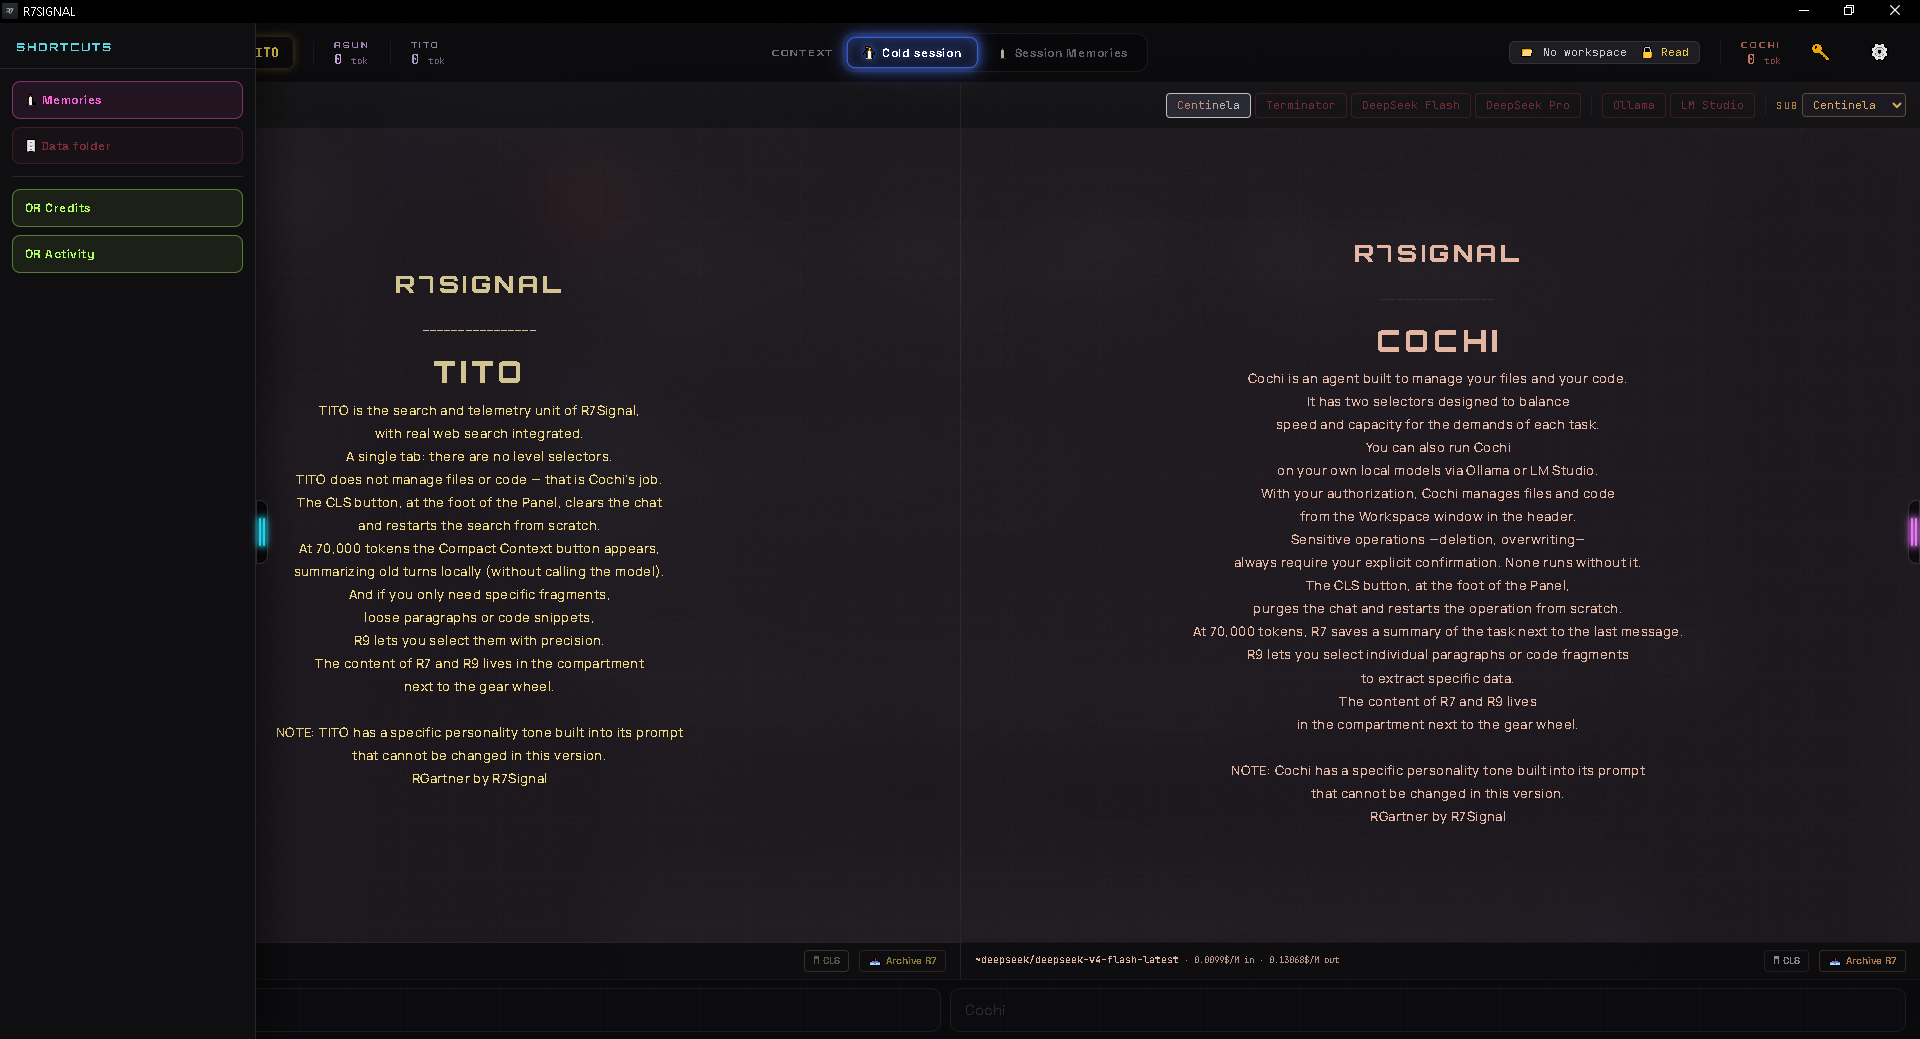
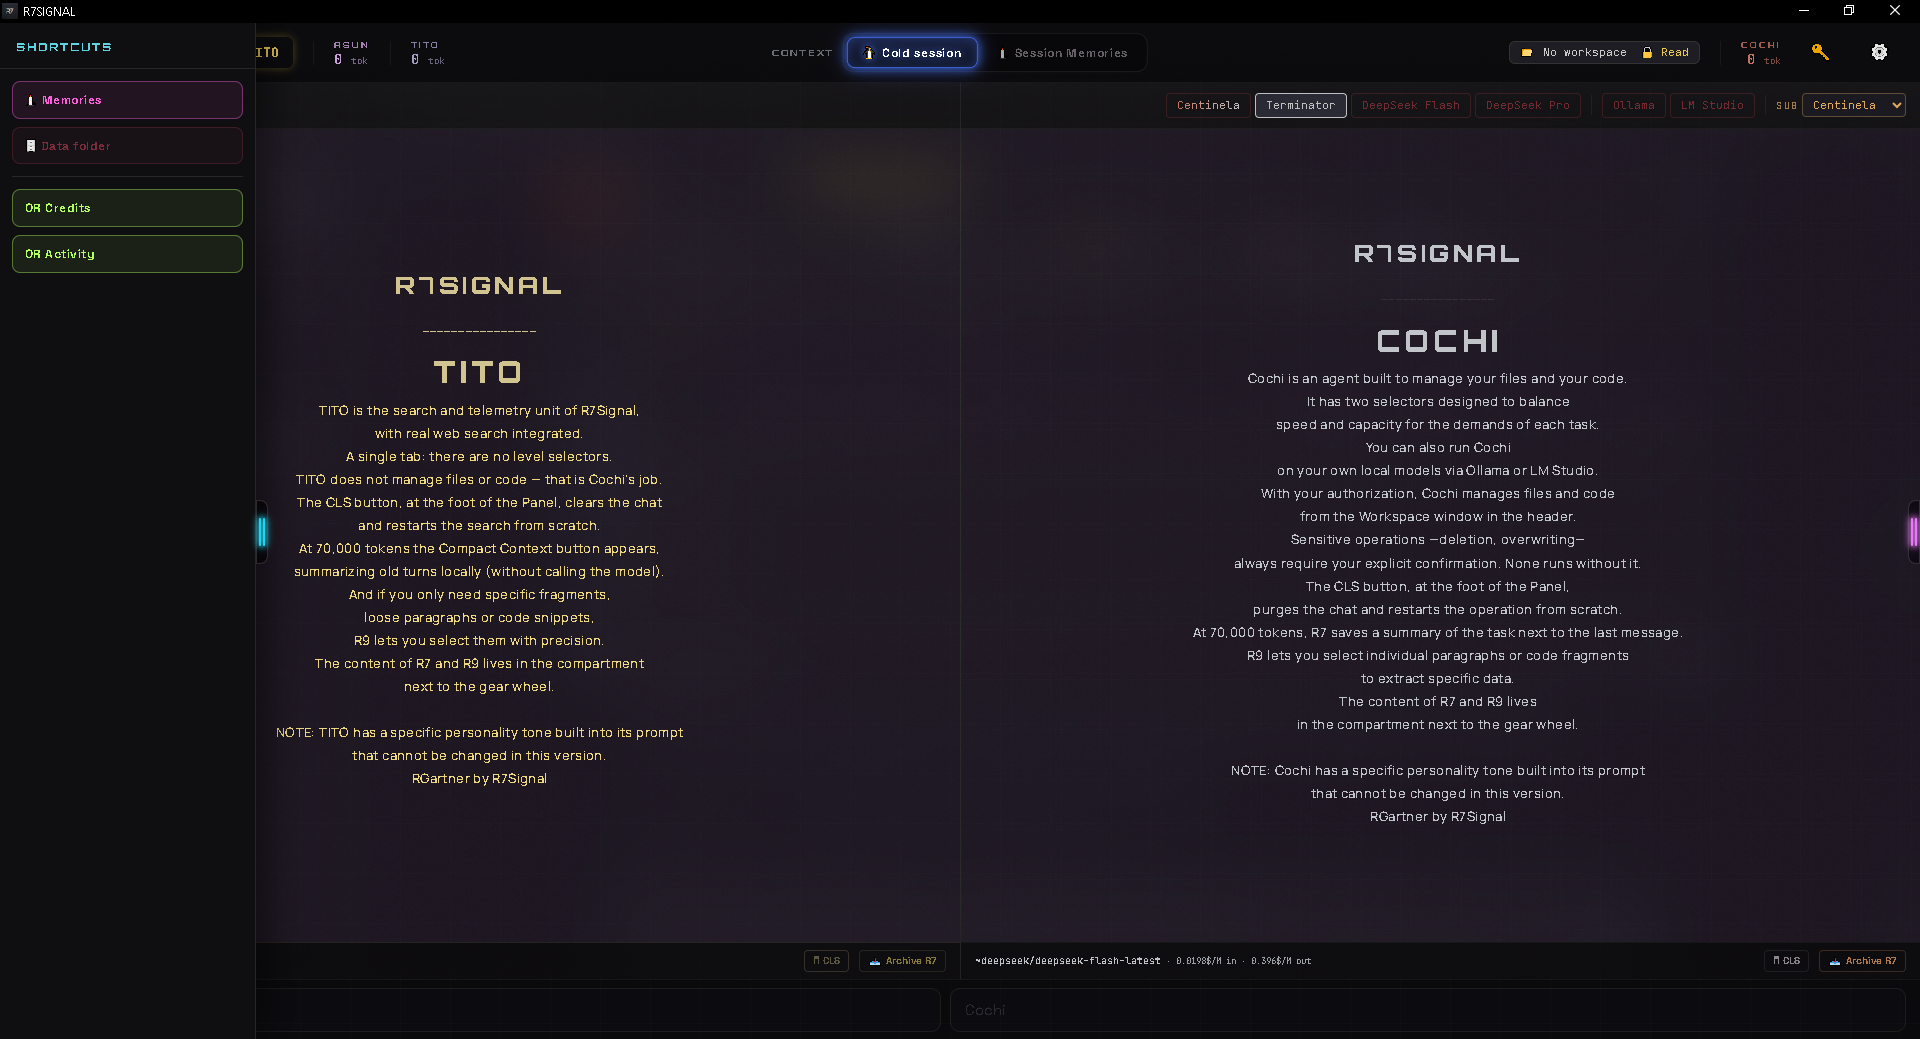
Cochi: S13-bis - lienzo rgb(37,10,48) y capturas nuevas con la 10-Plans en el README
Causa raiz: al re-disparar el set, la 06 dejo de ser Cochi+Asun y paso a ser Cochi+Tito, asi que 06/08/09 mostraban la misma escena y el README la publicaba tres veces; ademas el lienzo de los 3 paneles necesitaba color propio.

El velo de los 3 paneles pasa de rgba(30,15,32,0.25) a rgba(37,10,48,0.25): CochiDesktop.jsx:395, R7Desktop.jsx:378 (.tito-chat) y AsunPanel.jsx:646. Cero logica: solo el color del lienzo.

10 capturas reales (1920x1039) reemplazadas, mas la nueva 10-Plans.png con el tablero cargado (Plans 1, Run block / Done when). El README swapea la 08 por la 10: publica 06 Cochi+Tito, 07 Asun, 10 tablero, 05 puerta derecha y 09 Session Memories.

Los pies de foto se escribieron leyendo las tomas por OCR nativo (Windows.Media.Ocr, es-ES) y el tinte horneado se verifico por pixeles contra la captura de HEAD: delta R +0.28 / G -0.89 / B +2.69 contra el +1.75/-1.25/+4.00 esperado, amortiguado porque el velo no cubre header ni drawer.

metadata.harness.mjs exige las 10 capturas de docs/media (9 antes).

Gate: lint 0/0 - build OK (escalado: esbuild spawn EPERM bajo sandbox) - test 34/34.

diff --git a/src/components/AsunPanel.jsx b/src/components/AsunPanel.jsx
@@ -643,7 +643,7 @@ function AsunPanel({
       />
 
       {/* ── Contenido ── */}
-      <div ref={chatScrollRef} style={{ flex: 1, overflowY: 'auto', position: 'relative', display: 'flex', flexDirection: 'column', background: 'rgba(30, 15, 32, 0.25)' }}>
+      <div ref={chatScrollRef} style={{ flex: 1, overflowY: 'auto', position: 'relative', display: 'flex', flexDirection: 'column', background: 'rgba(37, 10, 48, 0.25)' }}>
 
         {/* ── IMAGEN: wizard ── */}
         {category === 'imagen' && (

diff --git a/src/components/CochiDesktop.jsx b/src/components/CochiDesktop.jsx
@@ -392,7 +392,7 @@ function CochiDesktop({
         flex: 1, display: 'flex', flexDirection: 'column',
         minHeight: 0, overflow: 'hidden', position: 'relative',
         padding: '12px 14px 10px',
-        background: 'rgba(30, 15, 32, 0.25)',
+        background: 'rgba(37, 10, 48, 0.25)',
       }}>
         <div className="leather-grid" style={{ position: 'absolute', inset: 0, pointerEvents: 'none', opacity: 0.7 }} />
 

diff --git a/src/components/R7Desktop.jsx b/src/components/R7Desktop.jsx
@@ -375,7 +375,7 @@ const handleUsage = useCallback(({ source, inputTokens = 0, outputTokens = 0, bi
           display: flex;
           flex-direction: column;
           gap: 14px;
-          background: rgba(30, 15, 32, 0.25);
+          background: rgba(37, 10, 48, 0.25);
         }
         .tito-watermark {
           display: flex;

diff --git a/docs/PLAN-OPENSOURCE.md b/docs/PLAN-OPENSOURCE.md
@@ -30,10 +30,11 @@ precios de los IDs directos) y los paneles ya ofrecen los IDs directos de DeepSe
 manifiestos (con harness que impide que se separen), `productName` **R7 Desktop**, `targets` sólo NSIS,
 crate `r7signal` en vez del scaffold `app` y `identifier` congelado por contrato (es AppLocalData).
 Las **capturas quedaron cortadas**: piden la app viva con key → **S13-bis**.
-**S13-bis CERRADA — capturas.** 9 tomas reales (1920x1039) en `docs/media/` y sección `## Screenshots`
+**S13-bis CERRADA — capturas.** 10 tomas reales (1920x1039) en `docs/media/` y sección `## Screenshots`
 en el `README.md` con 5 de ellas; las capturas las tomó el autor con la app viva y una key cargada (no
-se automatiza: sin GUI no hay toma). El **tablero de planes quedó sin capturar**: `Plans (0)` y su única
-cara posible era `No plans on the board yet.` → se re-dispara cuando exista un plan de Asun.
+se automatiza: sin GUI no hay toma). Segunda pasada de la misma sesión: el lienzo de los 3 paneles pasó
+a `rgba(37, 10, 48, 0.25)` y el autor re-disparó las 10, incluida **`10-Plans`** con el tablero cargado
+(`Plans 1`, `Run block` / `Done when` verificados por OCR).
 **Próxima sesión (candidata): S14 (build + GitHub Release)** o **la de defaults** (`HUD.jsx` muerto,
 `VITE_R7_USER_ID`/`VITE_SHOW_STUDIO` sin lectores, default `chat_language: 'Español'` — decisión del
 autor).
@@ -497,21 +498,26 @@ fecha/número (`es-ES` en `R9Drawer`, `es` en `R7TopBar` y `CochiStatusBar`).
   contra los archivos reales de `harness/`** (que era otro dato podrido: decía 29 con 33 suites).
   **Corte (regla 5): las capturas NO se hicieron** — piden la app viva con una key cargada y una
   sesión de UI; el README no lleva una sección de imágenes rota. Pasa a **S13-bis**.
-- [x] **S13-bis. Capturas para el README — CERRADA (9 tomas + 1 sección + 7 asserts).** El autor tomó
-  **9 capturas reales** de la app viva (1920x1039, PNG sin recomprimir, 11.9 MB) en `docs/media/`: los
+- [x] **S13-bis. Capturas para el README — CERRADA (10 tomas + 1 sección + 7 asserts).** El autor tomó
+  **10 capturas reales** de la app viva (1920x1039, PNG sin recomprimir, ~13 MB) en `docs/media/`: los
   3 pares de paneles en frío con sus dos configuraciones de modelo (`01` Asun MaríaBase, `02` Cochi
-  Centinela/Terminator), la sesión de cada agente con conversación real (`06` Cochi, `07` Asun, `08`
-  Tito), las **dos puertas laterales** (`04` izquierda: Memories/OR Credits/OR Activity; `05` derecha:
-  Sessions 154/Plans 0/R9 Selections 0) y **Session Memories** activo (`09`). El `README.md` publica 5
-  (las 3 conversaciones + la puerta derecha + Session Memories); las otras 4 quedan como insumo de S17.
-  Los pies de foto se escribieron leyendo las tomas por **OCR nativo** (`Windows.Media.Ocr`, es-ES):
-  cero datos inventados sobre imágenes que la sesión no puede ver. Nombres normalizados a
-  `04-left-door`, `05-right-door` y `06/07/08-*-session`: los 3 que el autor había rotulado `-board`
-  **no traen el tablero adentro** (son conversaciones) y `05` explica por qué —`Plans (0)`, el
-  `ProjectPlanView` sólo mostraría su estado vacío—. **Hallazgo:** la toma del tablero queda pendiente
-  de un plan real de Asun Modo Proyecto. `metadata.harness.mjs` pasa a **38 checks**: toda captura
-  citada por el README debe existir en disco y el conteo real de `docs/media/` queda fijado para que
-  borrar una no pase en silencio. Cero lógica de app: assets, docs y asserts.
+  Centinela/Terminator), la sesión de cada agente con conversación real (`06` Cochi + Tito, `07` Asun,
+  `08` Tito + Cochi), las **dos puertas laterales** (`04` izquierda: Memories/OR Credits/OR Activity;
+  `05` derecha: Sessions/Plans/R9 Selections) y **Session Memories** activo (`09`).
+  **Segunda pasada (misma sesión):** el lienzo de los 3 paneles pasó a `rgba(37, 10, 48, 0.25)`
+  —`CochiDesktop.jsx:395`, `R7Desktop.jsx:378` (`.tito-chat`) y `AsunPanel.jsx:646`— y el autor
+  re-disparó las 10, sumando **`10-Plans`** con el tablero cargado (`Plans 1` y los rótulos `Run block`
+  / `Done when` del `ProjectPlanView`, leídos por OCR). El `README.md` publica 5: `06` (Cochi + Tito),
+  `07` (Asun), `10` (tablero), `05` (puerta derecha) y `09` (Session Memories).
+  **Hallazgo de la segunda pasada:** la `06` re-disparada ya no trae el par Cochi+Asun sino Cochi+Tito,
+  y así quedaba triplicada con `08` y `09` → el README swapea la `08` por la `10` en vez de repetir el
+  mismo par. Los pies de foto se escribieron leyendo las tomas por **OCR nativo** (`Windows.Media.Ocr`,
+  es-ES): cero datos inventados sobre imágenes que la sesión no puede ver. El tinte nuevo se
+  **verificó por píxeles** contra la captura de HEAD (`09` nueva vs vieja: Δ R +0.28 / G −0.89 /
+  B +2.69 — mismo hue y dirección que el esperado +1.75 / −1.25 / +4.00, amortiguado porque el velo no
+  cubre header ni drawer). `metadata.harness.mjs` queda en **38 checks**: toda captura citada por el
+  README debe existir en disco y el conteo real de `docs/media/` está fijado en 10 para que borrar una
+  no pase en silencio. Cero lógica de app: assets, docs, un tinte y asserts.
 - [ ] **S14. Build + GitHub Release** con el instalador. Sin firma de código: avisar SmartScreen en el README.
 - [ ] **S15. Link de descarga.** `src/components/Descargas.jsx`: `PLATFORMS` tiene `url: '#'` en las tres
   plataformas → apuntar a la página de Releases (o a un asset). Revisar el CTA del `Home.jsx`.
@@ -577,6 +583,7 @@ Se publica igual, pero la UI mezcla idiomas y algunas features quedan deshabilit
 | S12-bis | **D5 — lista pública de modelos + selector de IDs directos (cierra la Fase 4).** `modelPrices.js` pasa a ser el catálogo por panel: cada entrada declara `provider` (el harness lo cruza con `providers.providerIdForModel`: de ahí salen key, URL y aviso), `vision` (adjuntar imagen en Asun) y `project` (modo Proyecto). Cochi ofrece 4 modelos (Centinela, Terminator, `deepseek-flash`, `deepseek-v4-pro`), Asun 3 (MaríaBase, IrmaMax, `deepseek-flash`) y el subagente `SUBAGENT_MODELS` con **sólo ids de OpenRouter**, porque `resolveSubagentProvider` no cambia de proveedor —sólo el `model`— y un id directo iría al endpoint de OpenRouter con la key equivocada. Los precios de los IDs directos entran con la tarifa **peak** (2x off-peak: la más cara, para no subestimar el costo del header). `CochiHeader.jsx` suma los 2 botones directos (tooltip `… · direct DeepSeek API (needs your DeepSeek key)`) y su select de subagente pasa a `SUBAGENT_MODELS`; `CochiDesktop.jsx` valida el subagente guardado contra esa lista y deriva el acento de visión (`isTerminator`) del catálogo; `AsunHeader.jsx` colorea por `provider` y `AsunPanel.jsx` deriva `isIrmaMax` y el corte del modo Proyecto de `project`. Cero cambios de prompts; Tito NO migra. Harness `cochiLlmMetrics` ampliado a 89 checks (tarifas directas + 10 asserts de consistencia del catálogo). Pendientes anotados: verificar la lista de OpenRouter el día del release y la sesión de defaults (`HUD.jsx`, variables muertas, `chat_language`). | lint 0/0 · build OK · test 33/33 | `b74dc0a` |
 | S13 | **Metadatos de release (abre la Fase 5).** `version` 0.1.0 en los 3 manifiestos — `package.json` decía `0.0.0` mientras Tauri y Cargo ya decían 0.1.0 (el instalador salía bien y el paquete npm mentía) —, `productName` `r7signal`→`R7 Desktop` (D3) y `targets` `all`→`["nsis"]` (un solo instalador `.exe` para el Release de S14, sin WiX). `identifier` **intacto a propósito**: `com.r7signal.cochi` es AppLocalData — renombrarlo borra las keys de `local_config.json` y `R7/`/`R9` de las instalaciones vivas. Iconos verificados, no regenerados: ya eran propios (desde `logo-r7.png`, 16/07 y 15/08) y el harness exige que los 5 del `bundle.icon` existan. El crate deja el scaffold de Tauri: `[package] name` `app`→`r7signal` (el binario pasa de `app.exe` a `r7signal.exe`; la lib sigue `app_lib` porque `main.rs` la llama así), `description`/`authors`/`license`/`repository` propios (antes `A Tauri App` / `["you"]` / vacíos) y `Cargo.lock` reordenado por cargo (21+21 líneas, cero dependencias tocadas). El README corrige dos datos podridos: el conteo de suites (decía 29 con 33) y la lista de modelos (ya no son sólo alias de OpenRouter desde S12-bis). Harness nuevo `metadata.harness.mjs` (31 checks) que ata versión/bundle/crate/LICENSE/README al repo. **Corte (regla 5): las capturas NO se hicieron** (piden la app viva con key y sesión de UI) → **S13-bis**. | lint 0/0 · build OK · test 34/34 | `454a9b4` |
 | S13-bis | **Capturas del README.** 9 tomas reales de la app viva en `docs/media/` (1920x1039, PNG originales, 11.9 MB): los 3 pares de paneles (MaríaBase y Centinela/Terminator), la sesión de cada agente con conversación real, las 2 puertas laterales y `Session Memories` activo. El `README.md` suma `## Screenshots` con 5 (06 Cochi, 07 Asun, 08 Tito, 05 puerta derecha, 09 Session Memories). Los pies de foto se escribieron leyendo las tomas por **OCR nativo** (`Windows.Media.Ocr` es-ES) porque la sesión no tiene visión: cero afirmaciones sobre imágenes no verificadas. Nombres normalizados (`04/05-*door`, `06/07/08-*-session`): los rotulados `-board` no contenían el tablero de planes, y `05` lo confirma (`Plans 0` → `No plans on the board yet.`) → esa toma queda pendiente de un plan de Asun Modo Proyecto. `metadata.harness.mjs` a **38 checks** (cada captura citada por el README debe existir en disco + conteo real de `docs/media/` fijado). Gate igual que S6-bis: `npm run build` falla con `spawn EPERM` de esbuild bajo el sandbox confinado y se verificó escalando el permiso, no cambiando el comando. | lint 0/0 · build OK · test 34/34 | `1d6d956` |
+| S13-bis-2 | **Segunda pasada de las capturas (misma sesión): lienzo + tablero.** El velo de los 3 paneles pasó de `rgba(30, 15, 32, 0.25)` a `rgba(37, 10, 48, 0.25)` — `CochiDesktop.jsx:395`, `R7Desktop.jsx:378` (`.tito-chat`) y `AsunPanel.jsx:646` — y el autor re-disparó las 10 capturas más la nueva `10-Plans.png` con el tablero cargado (`Plans 1`, rótulos `Run block` / `Done when` leídos por OCR). El `README.md` swapea la 08 por la 10: la 06 re-disparada ya no es el par Cochi+Asun sino Cochi+Tito, así que 06/08/09 mostraban el mismo par y el README publicaba la misma escena tres veces. El tinte nuevo se verificó por píxeles contra la captura de HEAD (Δ R +0.28 / G −0.89 / B +2.69: mismo hue y dirección que el +1.75/−1.25/+4.00 esperado, amortiguado porque el velo no cubre header ni drawer). `metadata.harness.mjs` pasa a exigir 10 capturas en `docs/media/`. Sin tocar prompts ni lógica de app. | lint 0/0 · build OK · test 34/34 | `PENDIENTE` |
 
 ---
 

diff --git a/README.md b/README.md
@@ -31,17 +31,18 @@ the model answers with text (capped at 25 iterations).
 Two panels share one window: each agent keeps its own wheel, its own workspace folder and its own
 model selector.
 
-![Cochi and Asun in one window](docs/media/06-cochi-session.png)
+![Cochi and Tito in one window](docs/media/06-cochi-session.png)
 
-*Cochi, the task agent, next to Asun, who keeps images, music and project mode.*
+*Cochi, the task agent, and Tito, the search and telemetry unit, answering side by side.*
 
 ![Asun in a live turn](docs/media/07-asun-session.png)
 
-*Asun answering, with Tito one tab away.*
+*Asun answering in its own register, with Cochi's panel alongside.*
 
-![Tito answering](docs/media/08-tito-session.png)
+![The plan board](docs/media/10-Plans.png)
 
-*Tito, the search and telemetry unit: chat with web search and a tone of its own.*
+*A plan loaded on the board, with the Plans tab open beside it: blocks, run, done-when and evidence,
+written by Asun's project mode for Cochi to execute.*
 
 ![The right side door](docs/media/05-right-door.png)
 
